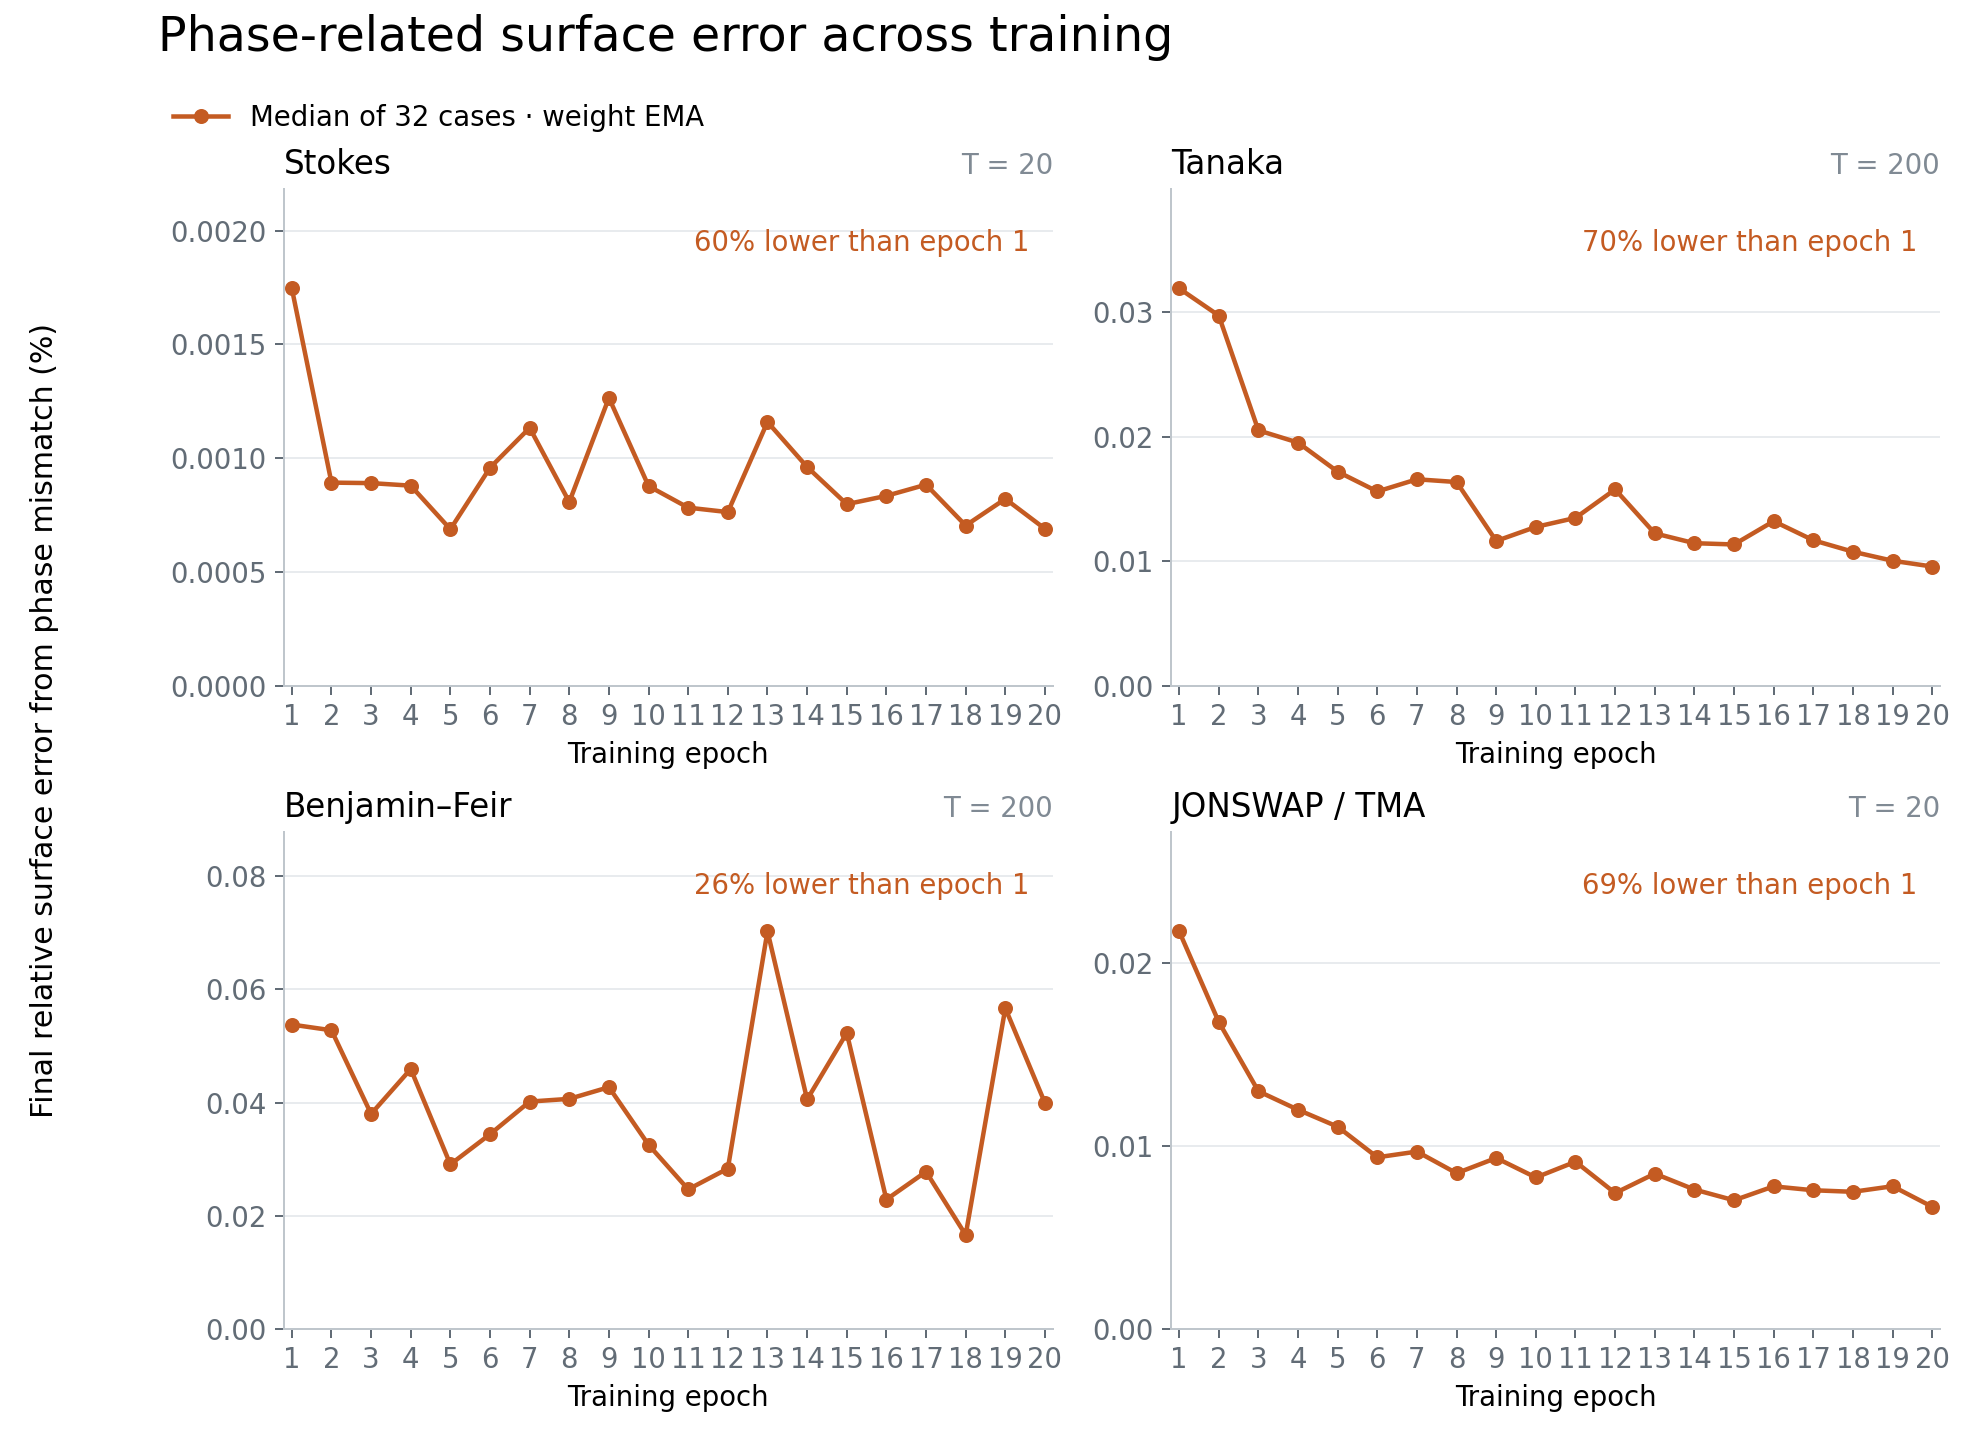
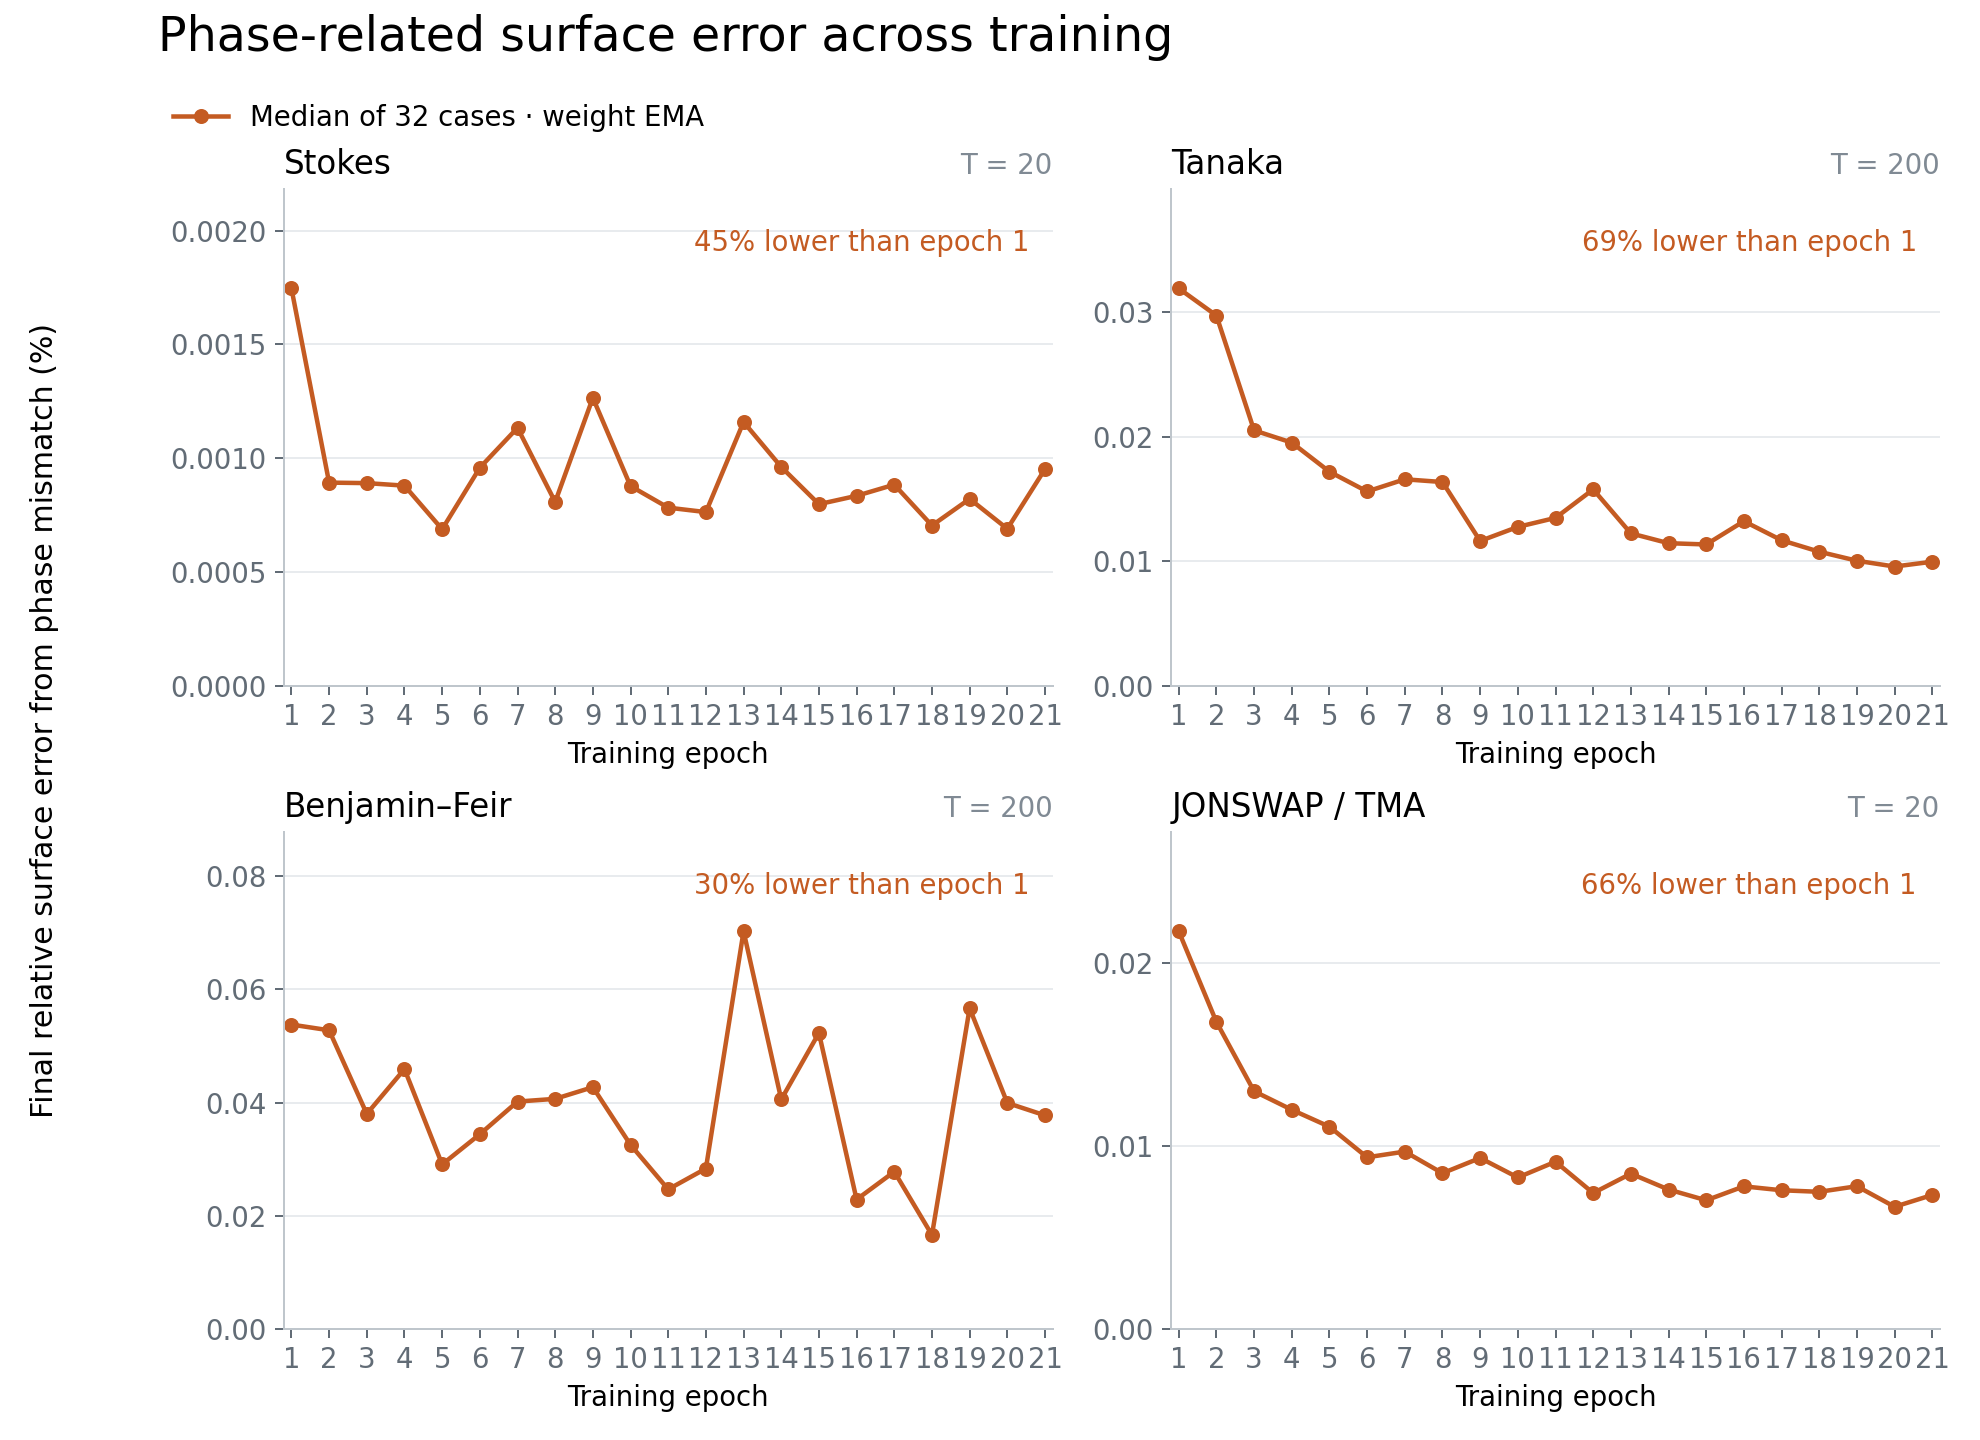
Refresh phase plot through epoch 21; retain epoch 18 best

diff --git a/paper-plots/plot_phase_diagnostics.py b/paper-plots/plot_phase_diagnostics.py
@@ -75,7 +75,7 @@ def main() -> None:
         "pdf.fonttype": 42, "ps.fonttype": 42,
     })
     if args.phase_training:
-        epochs = np.arange(1, 21)
+        epochs = np.arange(1, 22)
         evaluations = [
             ROOT / "outputs/c27_phase1_lr8_momentum_half_ema995_grad05_adam05_b2099_batch16_hd04_band128_nested1_gamma32_full_20261012/eval_fast_weight_ema_nestedfused_contextbatch",
             *(ROOT / f"outputs/c27_nested_b16_ema_low_lr_continue_20261014/eval_epoch{epoch}_weight_ema" for epoch in (2, 3)),

diff --git a/experiments/experiments-2026-10-16.md b/experiments/experiments-2026-10-16.md
@@ -1,9 +1,10 @@
 # Experiments — 2026-10-16
 
-Epoch 18 remains the aggregate rollout best under the approved low-LR continuation. Figure 12c uses epoch-18 weight EMA and unchanged measured Ada timings; Figure 22 includes epochs 1–20. Epoch 20 recovers some of epoch 19's rollout regression but does not beat 18. Epoch 21 resumed automatically. Best validation is 20, with patience 0/5; the longer-run experiment remains ongoing.
+Epoch 18 remains the aggregate rollout best under the approved low-LR continuation. Figure 12c uses epoch-18 weight EMA and unchanged measured Ada timings; Figure 22 includes epochs 1–21. Epoch 21 improves on 20 but does not beat 18. Epoch 22 resumed automatically. Best validation is 21, with patience 0/5; the longer-run experiment remains ongoing.
 
 | Date | Time | File / Variant | Motivation | What Tried / Evidence | Correctness | Timing | Decision |
 | --- | --- | --- | --- | --- | --- | --- | --- |
 | 2026-10-16 | 01:39 | `outputs/c27_nested_b16_ema_low_lr_ep60_20261014`: epoch 18 primary EMA; Figures 12c/22 | Test whether unchanged continuation sustains the first-epoch gains and improves the best rollout checkpoint; keep the requested figures current. | All 128 EMA rollouts complete. Pooled paired eta/xi18/17=.919325/.936185 (76/74 wins),18/10=.786042/.780761 (93/91),18/1=.397292/.392737 (112/114). Eta/M2=.185712 (103 wins),eta/M3=.782583 (68 wins). Eta median/p95 percent S/T/BF/J: .000712772/.010585208, .013159196/.198620226, .018068012/.058648051, .009393761/.068415257. Family eta18/17=.812652/1.204258/.765215/.953826: Tanaka regresses; its xi GM rises35.93% and xi p95 rises.046173% to.107175%. Pooled eta GM/median/p95=.006827926/.008985342/.070785590%; xi GM=.005354819%. Whole-trajectory eta18/17=.946973,18/1=.406534; exact terminal phase18/17=.930150,18/1=.414780; amplitude18/17=.868923. Validation selection1.359654059e-5 improves.915%,data.703%; best18,patience0/5. | Independent CPU audit verifies matching128 IDs/times/depths, finite fields, valid references, positive depth and exact terminal eta/xi/Gxi norms. Main independently reproduces paired errors, trajectory errors and the direct sine-half-angle Fourier phase/amplitude identity. Full18 state retained in `rollout_best_epoch18_ckpt`; counters13271310 and all52 EMA arrays/40384 scalars exactly match latest/export. GradientEMA.5,weightEMA.995,LR8e-6 unchanged. Figure12c fixed-case eta percent .000053998/.209403060/.047791677/.020359747; unchanged B1 times1.555725211/15.307572914/15.304878696/1.560811040 seconds. Figure22 phase medians .000704441/.010768249/.016586962/.007482056%, respectively59.7/66.2/69.2/65.5% below1. | Training02:03, finished01:28; validation/export01:31; EMA rollouts complete01:35, then automatic epoch19 resume. CPU audits/render01:32–01:39; no new GPU timing. | MERGE figures/log and retain18 as best by pooled geometric-mean terminal eta, not every family or metric. Continue the approved60-epoch ceiling and patience-five rule unchanged; sustained60–120-epoch transfer remains unproven. |
 | 2026-10-16 | 03:47 | Same continuation: epoch 19 primary EMA; Figure 22 | Check whether the latest epoch improves the selected checkpoint and refresh the requested plots without changing the timing comparison. | All 128 rollouts complete. Pooled eta/xi GM19/18=1.525226/1.570853 (44/45 wins); eta19/1=.605961,19/10=1.198892. Family eta19/18 S/T/BF/J=1.536834/.941414/3.527515/1.060378. Eta median/p95 percent: .000822857/.011549410, .011670987/.351531361, .058782276/.192945306, .009383185/.075355807. Pooled eta GM/median/p95=.010414131/.012014991/.161087965%; eta/M2=.283252,eta/M3=1.193616. Whole-trajectory eta19/18=1.545788; phase=1.611620, amplitude=1.232518. Selection validation improves .398% to1.354244021e-5, best19,patience0/5; it does not rank this rollout regression correctly. | Independent CPU checks confirm same128 IDs/times/depths, finite fields, positive depth, valid references and exact saved terminal eta/xi/Gxi norms. Root reproduces terminal errors and direct Fourier phase/amplitude identity. All six state counters14008605; all52 primary-EMA arrays/40384 scalars match latest and best shadows. LR8e-6,gradientEMA.5,weightEMA.995 unchanged. All19 pooled eta GMs checked:18 remains best. Figure22 includes19, phase medians .000821428/.010043498/.056665863/.007786042%; no new timings or GPU work launched. | Training02:03; validation/export03:42; EMA rollouts and automatic epoch20 resume03:46. CPU audit/render03:43–03:47. | MERGE phase-plot refresh; keep Figure12c at epoch18 with existing Ada B1 timings. Continue approved training and existing validation-patience rule unchanged. |
 | 2026-10-16 | 05:58 | Same continuation: epoch 20 primary EMA; Figure 22 | Determine whether continued low-LR training recovers the epoch-19 rollout regression while preserving the first-epoch gains. | All128 rollouts complete. Pooled eta/xi GM20/19=.817410/.796268 (84/85 wins),20/18=1.246735/1.250820 (56/51),20/1=.495318/.491243 (104/103). Eta/M2=.231533 (96 wins),eta/M3=.975673 (71). Family eta20/18 S/T/BF/J=1.523536/.832042/1.916228/.994606: Tanaka improves, but Stokes and BF remain worse. Eta median/p95 percent: .000704230/.018553826, .011992936/.252551636, .040808401/.128876463, .008516840/.064652231. Pooled eta GM/median/p95=.008512612/.010771663/.114248221%; xi GM=.006697916%. Whole-trajectory eta20/18=1.217428,20/1=.494925; exact phase20/18=1.288312,20/1=.534367; amplitude20/18=1.106702. Validation selection improves2.549% to1.319721935e-5, best20,patience0/5. | Independent CPU audit verifies matching128 IDs/times/depths, finite fields, valid references, positive depth and exact saved terminal eta/xi/Gxi norms. Root independently reproduces terminal/trajectory errors and the direct sine-half-angle Fourier phase/amplitude identity. All six state counters14745900; all52 EMA arrays/40384 scalars exactly match latest/export/best shadows. LR8e-6,gradientEMA.5,weightEMA.995 unchanged. Figure22 includes20; phase medians .000690153/.009579230/.039918254/.006664114%. Epoch18 remains best; no new B1 timings or GPU experiment launched. | Training02:03, finished05:50; validation/export05:53; EMA rollouts complete05:57, then automatic epoch21 resume. CPU audits05:55–05:58. | MERGE phase-plot refresh; retain Figure12c and saved best full state at18. Continue the approved60-epoch ceiling and patience-five rule unchanged; sustained60–120-epoch transfer remains unproven. |
+| 2026-10-16 | 08:08 | Same continuation: epoch 21 primary EMA; Figure 22 | Refresh the requested plots with the newest complete evaluation while selecting the best checkpoint across all 128 cases. | All128 EMA rollouts complete. Pooled eta/xi GM21/20=.937792/.937453 (75/71 wins),21/18=1.169178/1.172585 (55/55),21/1=.464505/.460517 (102/102). Eta/M2=.217130 (99 wins),eta/M3=.914979 (70). Family eta21/18 S/T/BF/J=1.277710/.839311/1.813656/.960754. Eta median/p95 percent: .000957233/.009776410, .011524200/.362344611, .040419819/.107303824, .009169342/.065778395. Pooled eta GM/median/p95=.007983059/.010235957/.110611942%; xi GM=.006278980%. Whole-trajectory eta21/18=1.140087,21/1=.463483; exact phase21/18=1.200601,21/1=.497986. Validation selection improves2.5975% to1.285441564e-5, best21,patience0/5. | Independent CPU checks confirm matching IDs/times/depths, finite fields, valid references, positive water depth and exact saved terminal eta/xi/Gxi errors. Root reproduces terminal/trajectory errors and the direct Fourier phase/amplitude identity. All six state counters15483195; all52 EMA arrays/40384 scalars match latest/export/best shadows. LR8e-6,gradientEMA.5,weightEMA.995 unchanged. Figure22 extends through21, phase medians .000952254/.009967935/.037728176/.007307912%; Figure12c stays at18 with unchanged measured B1 timings. | Training02:02, finished08:00; validation/export08:03; EMA evaluation and automatic epoch22 resume08:06. CPU audit/render08:06–08:08; no new GPU timing. | MERGE phase-plot refresh and keep18 as best rollout checkpoint. Continue the approved60-epoch ceiling and validation-patience-five rule unchanged. |

diff --git a/paper-plots/README.md b/paper-plots/README.md
@@ -435,7 +435,7 @@ UV_CACHE_DIR=/tmp/codex-uv-cache uv run --no-sync paper-plots/plot_neural_advant
 
 Figure 12c compares the Ada classical solver, epoch-18 EMA candidate, and older
 rollout-supervised network. Epoch 18 is the best overall evaluated checkpoint
-through epoch 20 by pooled geometric-mean terminal surface error across the 128 cases;
+through epoch 21 by pooled geometric-mean terminal surface error across the 128 cases;
 each panel still displays the fixed timed case, not the family median. Runtime
 measurements are unchanged for the same inference path. It omits the RMS/context
 and spectral-DNO models and historical timing annotations:
@@ -760,15 +760,15 @@ OPENBLAS_NUM_THREADS=1 OMP_NUM_THREADS=1 UV_CACHE_DIR=/tmp/dno-uv-cache \
 [PNG](figures/22-phase-error-vs-training.png) / [PDF](figures/22-phase-error-vs-training.pdf)
 
 Terminal Fourier-phase error for primary weight-EMA checkpoints at every epoch
-from 1 through 20, using the same 32 cases per family. The y axis uses Figure 20's
+from 1 through 21, using the same 32 cases per family. The y axis uses Figure 20's
 relative-error magnitude, not the percentage of total squared error. Each point
 is the median of `100*sqrt(phase_energy/reference_energy)` at the final rollout
-time. All twenty measurements are shown; the curves are not monotonic.
-Epoch-20 median errors are 0.000690153%, 0.00957923%, 0.0399183% and
-0.00666411% for Stokes, Tanaka, Benjamin–Feir and JONSWAP/TMA. Relative to
-epoch 18, these medians change by -2.0%, -11.0%, +140.7% and -10.9%.
-Epoch 20 improves pooled geometric-mean terminal surface error by 18.3%
-against epoch 19, but remains 24.7% worse than epoch 18. Figure 12c therefore
+time. All twenty-one measurements are shown; the curves are not monotonic.
+Epoch-21 median errors are 0.000952254%, 0.00996794%, 0.0377282% and
+0.00730791% for Stokes, Tanaka, Benjamin–Feir and JONSWAP/TMA. Relative to
+epoch 18, these medians change by +35.2%, -7.4%, +127.5% and -2.3%.
+Epoch 21 improves pooled geometric-mean terminal surface error by 6.2%
+against epoch 20, but remains 16.9% worse than epoch 18. Figure 12c therefore
 retains epoch 18, selected using all 128 cases rather than the four plotted cases.
 
 ```sh

diff --git a/EXPERIMENTS.md b/EXPERIMENTS.md
@@ -33,11 +33,11 @@ could not be recovered at all are in
 
 ## Dated logs
 
-98 files, 1618 rows.
+98 files, 1619 rows.
 
 | Date | Rows | File | Size |
 | --- | --- | --- | --- |
-| 2026-10-16 | 3 | [`experiments/experiments-2026-10-16.md`](experiments/experiments-2026-10-16.md) | 6 KB |
+| 2026-10-16 | 4 | [`experiments/experiments-2026-10-16.md`](experiments/experiments-2026-10-16.md) | 8 KB |
 | 2026-10-15 | 37 | [`experiments/experiments-2026-10-15.md`](experiments/experiments-2026-10-15.md) | 64 KB |
 | 2026-10-14 | 16 | [`experiments/experiments-2026-10-14.md`](experiments/experiments-2026-10-14.md) | 38 KB |
 | 2026-10-13 | 8 | [`experiments/experiments-2026-10-13.md`](experiments/experiments-2026-10-13.md) | 14 KB |
